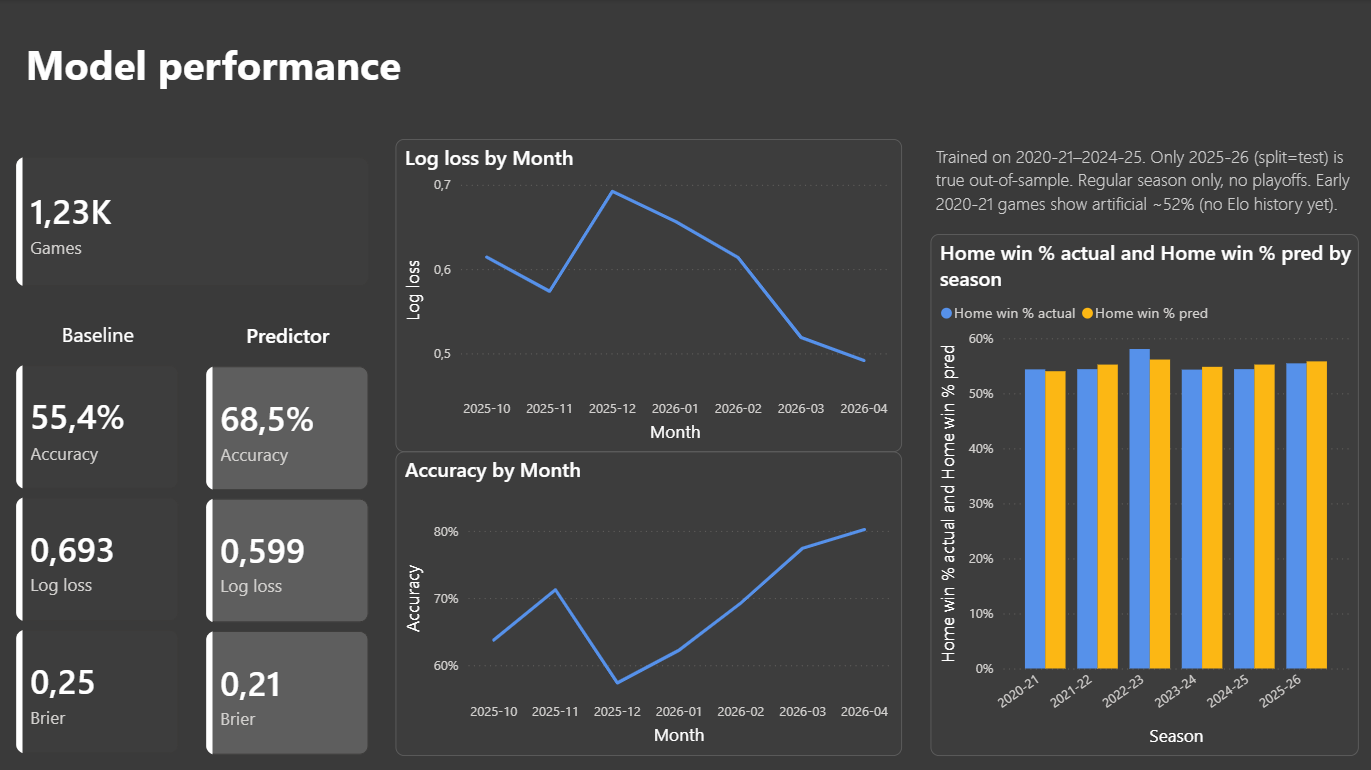
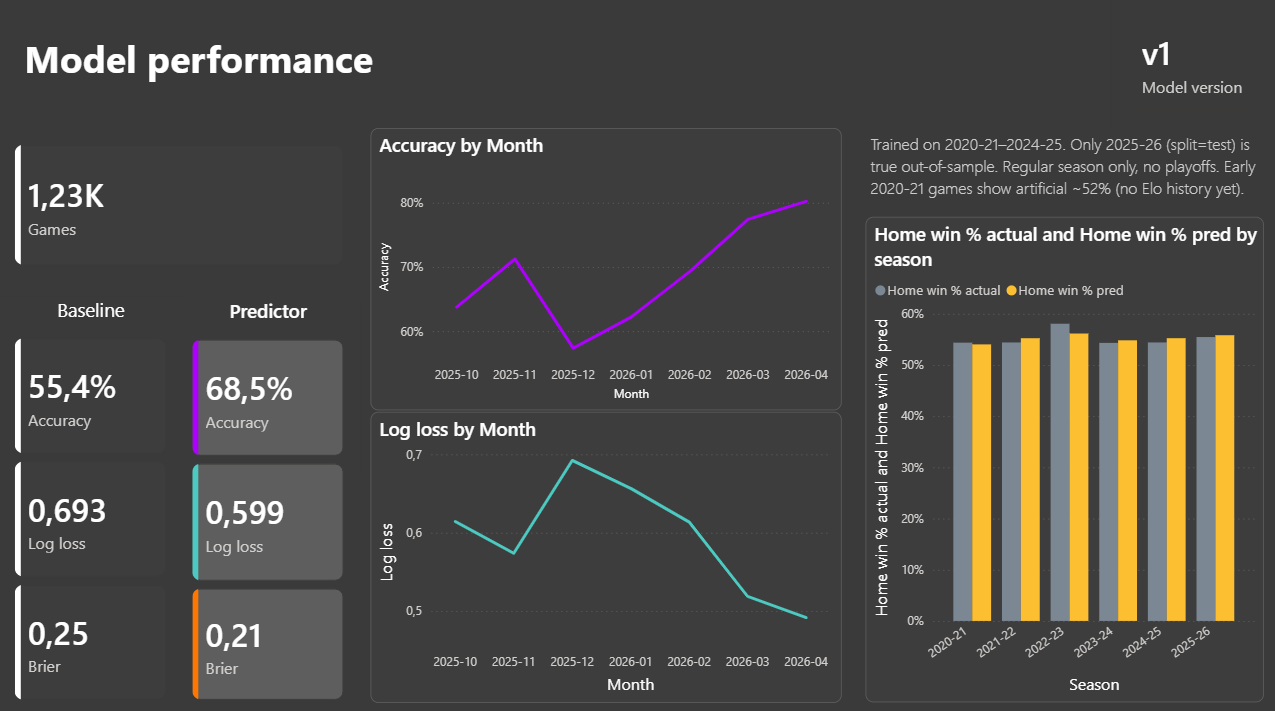
updated  both readmes and cleaned clean_data.py and fetch_data.py

diff --git a/src/clean_data.py b/src/clean_data.py
@@ -10,7 +10,7 @@ MATCHED_OUTPUT_PATH = 'data/processed/games_matched.csv'
 
 
 def load_raw_games():
-    """Played games, plus any scheduled games that have not been played yet.
+    """played games, plus any scheduled games that have not been played yet.
 
     A game appears in schedule.csv from the day it is published and in
     games.csv from the day it is played, so for a window of a few days both
@@ -38,8 +38,12 @@ def load_raw_games():
 
 
 def fix_corrupted_matchup(df):
-    # there are some anomalies in data where matchup column is corrupted
-    # we fix this column for correct split in next step
+    '''fix matchup column anomalies
+
+    there are some anomalies (found in jupyter notebook) in data where 
+    matchup column is corrupted. we fix those anomalies for correct 
+    split in next step
+    '''
 
     starts_with_own_team = df['TEAM_ABBREVIATION'] == df['MATCHUP'].str[:3]
     valid = df[starts_with_own_team].copy()
@@ -73,10 +77,15 @@ def fix_corrupted_matchup(df):
 
 
 def split_home_away(df):
-    # our data now have two rows for one game (home and away)
-    # we want to split away games from home games for merging them
+    '''splits data into home and away matches
 
-    # 'vs' in MATCHUP means home '@' means away
+    our data now have two rows for one game (home and away)
+    we want to differentiate away games from home games for merging them
+    into matches later
+
+    'vs' in MATCHUP means first mentioned team is home 
+    '@' means away
+    '''
     home = df[df['MATCHUP'].str.contains('vs.')].copy()
     away = df[df['MATCHUP'].str.contains('@')].copy()
 
@@ -85,6 +94,11 @@ def split_home_away(df):
     return home, away
 
 def merge_home_away(home, away):
+    '''merges splitted data into matches
+
+    from splitted data (home and away matches) merges
+    into match data (not duplicated for away team and home team)
+    '''
 
     stat_cols = ['PTS', 'REB', 'AST', 'STL', 'BLK', 'TOV', 'FG_PCT',
                      'FG3_PCT', 'FT_PCT', 'OREB', 'DREB', 'PF', 'PLUS_MINUS', 'WL']
@@ -102,9 +116,9 @@ def merge_home_away(home, away):
     return merged
 
 def add_is_future(df, wl_col):
-    """Flag rows that have no result yet.
+    """flag rows that have no result yet.
 
-    A scheduled game is defined by the absence of a box score, not by an
+    a scheduled game is defined by the absence of a box score, not by an
     external marker: fetch_schedule appends rows with NaN stats and this
     derives everything downstream from that. It also makes the backtest in
     tests/test_future_features.py faithful - blanking a played game's box
@@ -115,8 +129,11 @@ def add_is_future(df, wl_col):
 
 
 def add_target(df):
-    # NaN, not 0, for games without a result - a future game has no target,
-    # and 0 would silently teach the model that every fixture is a home loss.
+    '''adds target to future games
+
+    NaN, not 0, for games without a result - a future game has no target,
+    and 0 would silently teach the model that every fixture is a home loss.
+    '''
     df['home_win'] = np.where(df['HOME_WL'].isna(), np.nan,
                               (df['HOME_WL'] == 'W').astype(float))
     return df

diff --git a/src/fetch_data.py b/src/fetch_data.py
@@ -25,7 +25,7 @@ CURRENT_SEASON = SEASONS[-1]
 
 OUTPUT_PATH = 'data/raw/games.csv'
 
-REQUEST_PAUSE = 0.6  # nba_api is rate limited
+REQUEST_PAUSE = 0.6
 
 
 def fetch_season(season):

diff --git a/powerbi/README.md b/powerbi/README.md
@@ -3,27 +3,41 @@
 Dashboard on top of [`nba-win-probability-predictor`](../README.md). 7 pages, built from the CSVs in `data/processed/` (regenerate via `run_daily.bat` or
 the pipeline steps in the root README).
 
-Pages 1–5 back-test the production model (**v1**, fit 2020-21…2024-25, with 2025-26 held out — only `split = "test"` rows are genuine out-of-sample). Page 7 is the live product: predictions on games not yet played, scored by **v2** (fit on every season including the 2025-26 holdout — a forecast has no holdout to protect, so it uses the model with the most, freshest data).
+Pages 1–5 back-test the production model (**v1**, fit 2020-21…2024-25, with 2025-26 held out - only `split = "test"` rows are genuine out-of-sample). Page 7 is the live product: predictions on games not yet played, scored by **v2** (fit on every season including the 2025-26 holdout - a forecast has no holdout to protect, so it uses the model with the most, freshest data).
 
 ## Pages
 
 **1 - Model performance** *(filter: `split = test`)*
 Headline backtest numbers: games, accuracy, log loss, Brier score, and which model version produced them. Log loss and accuracy over time, plus predicted vs. actual home-win rate by season (shows the model tracking real home-court advantage, not just the baseline).
 
+![Model performance](screenshots/page1_model_performance.png)
+
 **2 - Calibration**
 Predicted vs. actual win rate by probability bucket, from `calibration.csv`. Points on the diagonal mean the model's stated probabilities are trustworthy - a 70% pick should win about 70% of the time. Only `train`/`test` splits exist here; the production model fits on train+val, so there's no genuine `val` holdout to show.
 
+![Calibraition](screenshots/page2_calibration.png)
+
 **3 - Predictions explorer**
-Every played game, filterable and sortable: teams, predicted probability, actual result, margin. Slicers for split and season — for browsing individual games rather than reading aggregate metrics.
+Every played game, filterable and sortable: teams, predicted probability, actual result, margin. Slicers for split and season - for browsing individual games rather than reading aggregate metrics.
+
+![Predictions](screenshots/page3_predictions_explorer.png)
 
 **4 - Upsets & confidence** *(filter: `split = test`)*
-Games the model got most wrong, ranked by how big the surprise was. Also breaks down accuracy by confidence level — whether the model is actually more reliable when it claims to be.
+Games the model got most wrong, ranked by how big the surprise was. Also breaks down accuracy by confidence level - whether the model is actually more reliable when it claims to be.
+
+![Upsets](screenshots/page4_upsets_and_confidence.png)
 
 **5 - Team view**
 One team at a time: its Elo trajectory over the full history, and predicted vs. actual win totals per season. Picked via a team slicer.
 
+![Team view](screenshots/page5_team_view.png)
+
 **6 - All teams Elo**
 Elo rating for every team over time, from `team_elo_history.csv`.
 
+![All teams elo](screenshots/page6_all_teams_elo.png)
+
 **7 - Upcoming games**
 Live predictions for fixtures that haven't been played yet — team logos, predicted winner and margin, and a per-fixture staleness flag (`stale_games`) showing how current the underlying form/Elo data is. Once a game is settled, its actual result is backfilled and a live accuracy/log loss track record builds up, filtered to `stale_games = 0` for an honest number. Shows model **v2** (`role = primary`) by default, with **v1** riding along as a shadow (`role = shadow`) for comparison over the season.
+
+![Upcoming predictions](screenshots/page7_upcoming_predictions.png)

diff --git a/README.md b/README.md
@@ -176,10 +176,8 @@ v2 are scoring 2026-27 fixtures right now - a season neither has seen.
 
 ## Dashboard
 
-Power BI, 6 pages: model performance, calibration, a predictions explorer,
-upsets & confidence, team Elo trajectories, and a live "upcoming games"
-master/detail view with team logos, per-fixture staleness indicators, and a
-live-vs-model-version track record.
+Power BI, 6 pages: model performance, calibration, a predictions explorer, upsets & confidence, team Elo trajectories, and a live "upcoming games" master/detail view with team logos, per-fixture staleness indicators, and a live-vs-model-version track record.
+More details on [`powerbi/README.md`](powerbi/README.md)
 
 ![Model performance](powerbi/screenshots/page1_model_performance.png)
 ![Calibration](powerbi/screenshots/page2_calibration.png)
